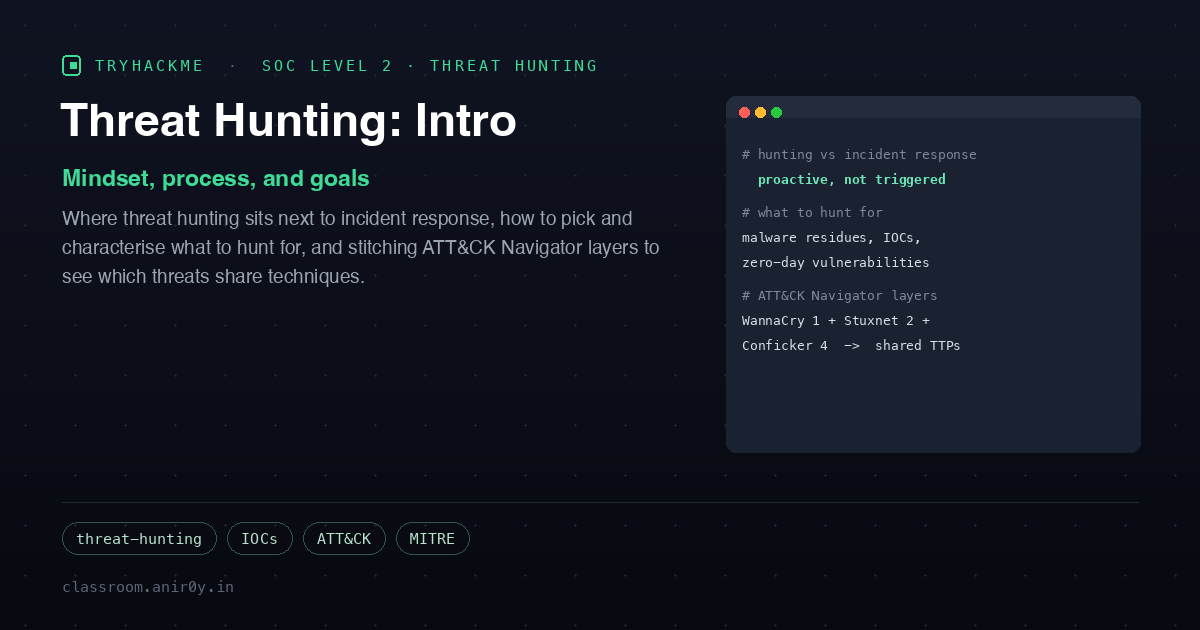
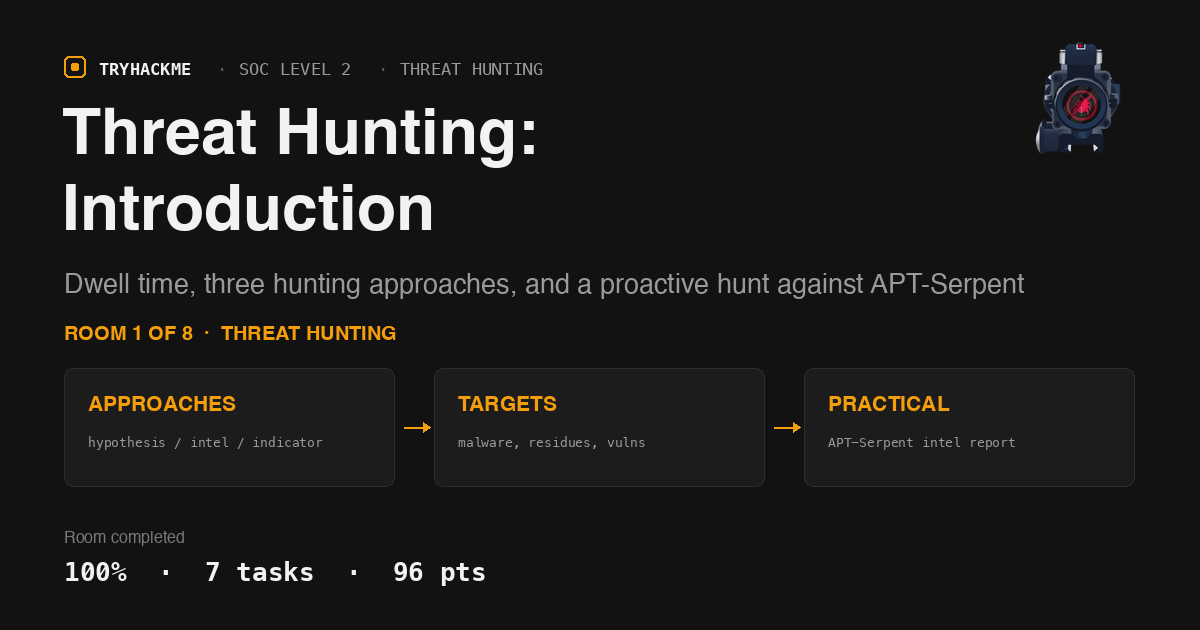
post: rewrite TryHackMe Threat Hunting Introduction walkthrough for the rebuilt room — TryHackMe replaced the old hunting-vs-IR + ATT&CK Navigator version with approaches/targets/techniques plus an APT-Serpent threat-intel practical, so the published post described content that no longer exists; now
Claude-Session: https://claude.ai/code/session_015UMUAbZdm7k5pChnff5Sem

diff --git a/content/post/thm-room-threat-hunting-introduction.md b/content/post/thm-room-threat-hunting-introduction.md
@@ -1,7 +1,7 @@
 ---
-title: "TryHackMe Threat Hunting Introduction: Mindset and Process"
+title: "TryHackMe Threat Hunting Introduction: Approaches, Targets, and APT-Serpent"
 date: 2026-08-11T10:15:00+05:30
-lastmod: 2026-08-11T10:19:00+05:30
+lastmod: 2026-08-20T16:10:00+05:30
 author: Animesh Roy
 avatar: /img/avatar.jpeg
 authorlink: https://anir0y.in
@@ -15,62 +15,138 @@ tags:
   - rooms
   - SOC Level 2
   - Threat Hunting
-  - MITRE ATT&CK
+  - Threat Intelligence
   - Blue Team
 
 draft: false
-description: "Walkthrough of TryHackMe Threat Hunting Introduction: how hunting differs from incident response, picking what to hunt for, and ATT&CK Navigator layers."
+description: "Walkthrough of TryHackMe Threat Hunting Introduction: dwell time, the three hunting approaches and targets, the four hunting methods, and a proactive hunt against APT-Serpent in the practical."
 ---
 
 ## Threat Hunting: Introduction
 
-This is the opening room of the SOC Level 2 Threat Hunting path, and it is deliberately conceptual: no target machine, no logs to pull apart, just the mindset and process that everything later in the module builds on. It sets threat hunting against incident response, works through how a hunter decides what to look for and how, and finishes with a hands-on MITRE ATT&CK Navigator exercise that makes the theory tangible.
+Room: [Threat Hunting: Introduction](https://tryhackme.com/room/threathuntingintroduction) on TryHackMe.
 
-![The Threat Hunting Introduction room on TryHackMe marked Room completed 100 percent, all seven tasks green](/img/thm-thintro/01-room.png)
+The opening room of the **Threat Hunting** module in SOC Level 2 — room one of eight, ahead of [Foothold](/post/thm-room-threat-hunting-foothold/), [Pivoting](/post/thm-room-threat-hunting-pivoting/), [Endgame](/post/thm-room-threat-hunting-endgame/), the two Hunt Me rooms including [Typo Squatters](/post/thm-room-typo-squatters/), and finally Health Hazard and Typo Snare.
 
-## Tasks 2 and 3: hunting versus incident response, and the mindset
+> **Note on this post (updated 2026-08-20).** TryHackMe rebuilt this room after I first published. The earlier version was a conceptual walk through hunting-versus-IR with a MITRE ATT&CK Navigator exercise; the current one restructures everything around approaches, targets, and techniques, and replaces the Navigator work with a browser-based threat-intel practical. This walkthrough covers the current version — seven tasks, fourteen answers, 96 points.
 
-The core concept is the contrast between two disciplines that look similar from a distance. **Threat Hunting** is proactive: it assumes a breach has already happened and goes looking for the threats that slipped past existing defences, without waiting for an alert to fire. **Incident Response** is reactive: it kicks in after an incident has been **triaged** and confirmed, and works to contain and recover from it.
+![The Threat Hunting Introduction room at 100%, all seven tasks complete](/img/thm-thintro/01-room.png)
 
-![Terminal card contrasting threat hunting and incident response, and the assume-compromise mindset that surfaces Indicators of Compromise](/img/thm-thintro/02-mindset.png)
+There is no lab machine and no SIEM here. Five tasks are reading, and Task 6 is a self-contained web app holding a threat intelligence report you have to actually read.
 
-The two feed each other. A hunt that confirms something real hands off to incident response as a new incident, and both, done well, improve the organisation's **security posture** over time. Hunting is also informed by **Threat Intelligence**, which tells the hunter what is worth chasing. The mindset the room wants you to adopt is to assume compromise and then look for the traces it leaves, which surface as **Indicators of Compromise** (IOCs), the artefacts a hunt turns up as evidence.
+## Task 2: what threat hunting is, and dwell time
 
-## Task 4: the what, why, and how of a hunt
+The room opens with a building analogy that is better than most: cameras, motion sensors, and alarms are your automated detections, and they catch a lot but never everything. The guards who patrol *inside* the building without waiting for an alarm are the threat hunters. They start from the assumption that someone may already be past the perimeter.
 
-Task 4 breaks the hunting process into deciding *what* to hunt for and *how* to hunt for it. On the *what* side, the room points at three sources of leads. Malware is a constant in threat-actor toolkits, and the live malware repository it references is **theZoo**. **Attack Residues** are the example of threat intelligence that blends into environmental noise and is therefore worth hunting deliberately. And organisations should stay extra vigilant for announcements of **zero-day vulnerabilities**.
+That gives the first answer directly — threat hunting is **Proactive**, in contrast to incident response, which begins when an alert fires.
 
-On the *how* side, once you know your target you characterise it into specific, actionable identifiers you can compare against historical data. That, the room states, is done most effectively via **Attack Signatures and IOCs**, condensing the hunt down to concrete things you can immediately recognise across your telemetry.
+The second answer is the metric that justifies the whole discipline. **Dwell Time** is the average number of days an attacker remains undetected in your environment after initial compromise. The room cites 2024–2025 industry data putting typical dwell times at 20 to 30 days, with advanced actors persisting for months. Every day of dwell time is a day of reconnaissance, lateral movement, and staging, so compressing it is the point of hunting.
+
+The framing worth keeping: hunting and IR are not competitors. Hunting finds what detections missed; IR contains and removes it; what IR learns becomes tomorrow's detection, which redirects tomorrow's hunt.
+
+## Task 3: the three hunting approaches
+
+The room is explicit that these are the three most widely practised approaches rather than an exhaustive taxonomy, and that mature teams blend them.
+
+**Hypothesis-driven** starts from a question or suspicion. The worked example is a hunter who suspects finance workstations were phished, and goes looking for suspicious PowerShell, odd network connections, and credential access on those hosts. It is the approach for when you have a concern but no specific intelligence.
+
+**Intelligence-driven** starts from external threat intelligence — a report on a group targeting your sector, mapped through MITRE ATT&CK — and searches your environment for evidence of those specific TTPs.
+
+**Indicator-driven** starts from concrete artifacts: file hashes, IPs, domains, email addresses. Load the list, query for matches, get a binary answer.
+
+So the two answers fall out cleanly. Intelligence about an APT group targeting your industry calls for **Intelligence-driven Hunting**. A list of file hashes and IOCs from a threat feed calls for **Indicator-driven Hunting**.
+
+The room is honest about indicator-driven hunting's ceiling, and it matters later: indicators are objective and scale well, but attackers rotate infrastructure constantly, so IOCs go stale fast. It is most effective with recent indicators from active attacks.
+
+## Task 4: what you are actually hunting for
+
+Three categories of target, built on the premise that attackers cannot operate without creating artifacts:
+
+- **Known Malware** — samples reported in your industry that you go looking for.
+- **Attack Residues** — the traces left behind while executing the attack chain: commands run, files touched, persistence created, C2 established.
+- **Known Vulnerabilities** — evidence that a published CVE was exploited in the window before you patched, with Log4Shell (CVE-2021-44228) as the example.
+
+The answer for artifacts left behind during an attack is **Attack Residues**.
+
+The distinction the task draws between this and the next one is the useful bit: Task 4 is the *what*, Task 5 is the *how*.
 
 {{< ad >}}
 
-## Task 5: comparing threats in the ATT&CK Navigator
+## Task 5: the four hunting methods
 
-The practical is the highlight. Using the **MITRE ATT&CK Navigator**, you build one layer each for three classic Windows worms, giving each a distinct score so that a combined layer reveals overlap at a glance: **WannaCry = 1**, **Stuxnet = 2**, **Conficker = 4**. Stitching the layers with a score expression of `a+b+c` means any aggregate score decomposes uniquely into which threats contributed to it.
+Hunters search event logs, EDR telemetry, SIEM data, network flow, DNS, proxy, firewall, and application logs — and the room notes that list is only a starting point.
 
-![Terminal card explaining the ATT&CK Navigator layering, the 1/2/4 scoring scheme, and the shared techniques it reveals](/img/thm-thintro/03-navigator.png)
+Four methods:
 
-Reading the stitched layer answers the questions directly. The tactic with the most techniques highlighted is **Discovery**. The technique common to all three threats (aggregate score 7 = 1+2+4) is **Exploitation of Remote Services**, which makes sense for a set of worms that all spread by exploiting network-facing services. The technique shared by WannaCry and Conficker (score 5 = 1+4) is **Inhibit System Recovery**, and the score of techniques that Stuxnet and Conficker have in common is **6** (2+4). The scoring trick is the real lesson here: distinct weights turn a colour map into a lookup table for attribution.
+1. **Attack Signatures** — patterns matching known threats. Effective against known attacks, blind to novel ones.
+2. **Indicators of Compromise** — hashes, IPs, domains loaded into a query tool. Objective results, but brittle as attackers rotate infrastructure.
+3. **Behavioral Pattern Analysis** — sequences of events that together indicate malice even when each event looks benign.
+4. **Logical Queries and Anomaly Detection** — statistical deviation from an established baseline.
 
-![Card summarising the Task 4 process answers and every other answer in the room](/img/thm-thintro/04-answers.png)
+The question about file hashes, IP addresses, and domain names maps to **Indicators of Compromise**. The one quoting `Word.exe spawns cmd.exe spawns powershell.exe that connects to external IP` is **Behavioral Pattern Analysis** — that exact process chain is the room's own first example of the method.
 
-## Task 6: the goals of threat hunting
+Behavioral patterns are the method that earns its keep, because they describe what the attacker must *do* rather than which file they happened to use. Renaming the binary and rotating the C2 domain defeats methods 1 and 2; it does not change the fact that a document spawned a shell that spawned PowerShell that phoned out.
 
-The closing concept task names the objectives. The primary goal is to **Minimise a threat actor's dwell time**, the window between initial compromise and detection, because the longer an attacker sits undetected the more damage they do. The secondary aim is durability: once you have profiled a threat through hunting, you convert those profiles into **detection mechanisms** so the same threat is caught automatically next time, turning a manual hunt into a permanent detection.
+## Task 6: hunting APT-Serpent
 
-## Room summary
+The practical drops you in as a threat hunter at a financial services firm. Your team has intelligence on **APT-Serpent**, a group targeting your sector. No alerts have fired — that is the point, and it is exactly the intelligence-driven scenario Task 3 described.
 
-| | |
-|---|---|
-| Room | Threat Hunting: Introduction (SOC Level 2, Threat Hunting) |
-| Category | Threat Hunting, Easy |
-| Task 2 | `Threat Hunting`; `Incident Response`; `triaged`; `Threat Intelligence`; `security posture` |
-| Task 3 | `Indicators of Compromise` |
-| Task 4 | `theZoo`; `Attack Residues`; `zero-day vulnerabilities`; `Attack Signatures and IOCs` |
-| Task 5 | `Discovery`; `Exploitation of Remote Services`; `Inhibit System Recovery`; `6` |
-| Task 6 | `Minimise a threat actor's dwell time`; `detection mechanisms` |
-| Tool | MITRE ATT&CK Navigator |
+The app is a three-step flow: read the intel report, make a decision, collect the flag. It opens on the report, which carries a prominent disclaimer that APT-Serpent is fictional and all its data simulated.
 
-## Wrap-up
+![The APT-Serpent threat intelligence report showing the actor profile and known campaigns](/img/thm-thintro/02-intel-report.png)
 
-For a room with no machine, this one earns its place by fixing the vocabulary and the mental model the rest of the module leans on. Threat hunting is the proactive counterpart to incident response: assume a breach, decide what is worth hunting from intelligence and known malware, characterise it into signatures and IOCs, and compare against your data. The ATT&CK Navigator exercise is the neatest part, showing how a simple per-threat scoring scheme turns overlapping technique maps into an at-a-glance answer for which adversaries share which behaviours. Keep the dwell-time goal in mind and feed every confirmed hunt back into a detection, and the manual effort compounds into lasting coverage.
+The Known Campaigns table answers the first question. Operation Silent Coil (2021), Venom Strike (2022), Black Mamba (2023), and Hooded Cobra (2024) — **4** campaigns since 2021. The actor profile lists "Active since 2020", so the question's "since 2021" is doing real work: it is scoped to the campaign table, not the group's lifetime.
+
+The attack timeline answers two more.
+
+![The five-phase attack methodology and timeline for APT-Serpent](/img/thm-thintro/03-attack-timeline.png)
+
+```
+1. Reconnaissance        OSINT collection on employees via LinkedIn and conference rosters.
+2. Initial Access        Spear-phishing emails with weaponized Office documents
+                         exploiting CVE-2023-21716 macros.
+3. Execution & Persistence   Drops CustomBackdoor; establishes scheduled task and
+                             WMI event subscription for persistence.
+4. Lateral Movement      Pass-the-hash via stolen NTLM credentials; RDP pivoting.
+5. Exfiltration          Staged data compressed with 7z, encrypted, exfiltrated via HTTPS.
+```
+
+CustomBackdoor is dropped in phase 3, so the answer is **Execution & Persistence**. The primary initial access vector, from phase 2, is **Spear-phishing**.
+
+The Known Malware & Tools panel supplies the fourth.
+
+![The Known Malware and Tools panel listing CustomBackdoor capabilities including 300s C2 beacons](/img/thm-thintro/04-malware-tools.png)
+
+CustomBackdoor's capabilities end with "Encrypted HTTPS C2 beacons every 300s", so the beacon interval is **300** seconds. Worth noting for the later rooms: a fixed 300-second interval is exactly the kind of regularity that anomaly detection catches — real user traffic is not periodic.
+
+The report also ships an IOC database and an attack flow diagram. The indicators are defanged (`update-system[.]thm`), with a note to re-fang before using them in tooling.
+
+![The IOC database with defanged indicators and the attack flow visualization](/img/thm-thintro/05-ioc-attack-flow.png)
+
+### The decision
+
+Proceeding past the report gives you two multiple-choice questions, and this is where the room checks whether the theory landed.
+
+![The decision step asking which hunting approach and which hunting target to use](/img/thm-thintro/06-decision.png)
+
+**Approach: Intelligence-driven.** You have a finished intelligence report on a named actor with its TTPs, campaigns, and IOCs. That is the definition of the intelligence-driven trigger. Hypothesis-driven is what you reach for when you lack specific intel, and you are not lacking it here.
+
+**Target: Attack residues.** This is the more interesting half. The report hands you a tidy list of hashes and domains, so indicator-driven hunting against those IOCs is the tempting move — and it is the wrong one. The app's own explanation for rejecting the indicator option is that IOCs are brittle and easily rotated by a mature actor, and APT-Serpent is rated high sophistication with living-off-the-land tradecraft. Hunting the behavioural residues of its TTPs survives infrastructure rotation; hunting its current domains does not.
+
+![Both answers correct, showing intelligence-driven hunting and attack residues](/img/thm-thintro/07-correct.png)
+
+![The flag dialog showing THM-APT-SERPENT-INTEL](/img/thm-thintro/08-flag.png)
+
+> Flag: `THM-APT-SERPENT-INTEL`
+
+**Answer-format note.** This flag is not in the usual `THM{...}` shape, and the answer box tells you so before you submit: the mask is twenty-one bare underscores with no braces. It also confirmed something useful about how THM renders masks — hyphens come through as underscores, not as literal hyphens. That mattered for the initial-access question too, where the mask was fourteen unbroken underscores. Fourteen is `Spear-phishing` counting the hyphen, and submitting it that way was accepted first try; had hyphens rendered literally, the mask would have read `_____-________`.
+
+## Task 7: what to take forward
+
+Two things.
+
+**The approach is chosen by what you have, not by what you prefer.** The three approaches are not a maturity ladder where indicator-driven is beginner and hypothesis-driven is expert. They are selected by available input. A finished intel report on a named actor makes intelligence-driven correct. A hunch about the finance department with nothing else makes hypothesis-driven correct. A fresh feed of hashes from an active campaign makes indicator-driven correct. The practical is built to catch you picking the approach that matches the shiniest artifact in front of you — the IOC list — rather than the one that matches the situation.
+
+**Hunt behaviour, because behaviour is what the attacker cannot cheaply change.** Every piece of this room converges on the same point. Attack residues beat IOCs as a target, behavioral pattern analysis beats signature and indicator matching as a method, and the reason is identical in both cases: an adversary can recompile a binary, rotate a domain, and change an IP between breakfast and lunch, but they cannot achieve their objective without a document spawning a shell, credentials being replicated, or data being staged and pushed out. The durable detection describes the step in the chain, not the tool that happened to perform it. That is the thread the rest of the module pulls on.
+
+Room solved 100% — 7 tasks, 14 answers, 96 points, room one of eight in Threat Hunting.
